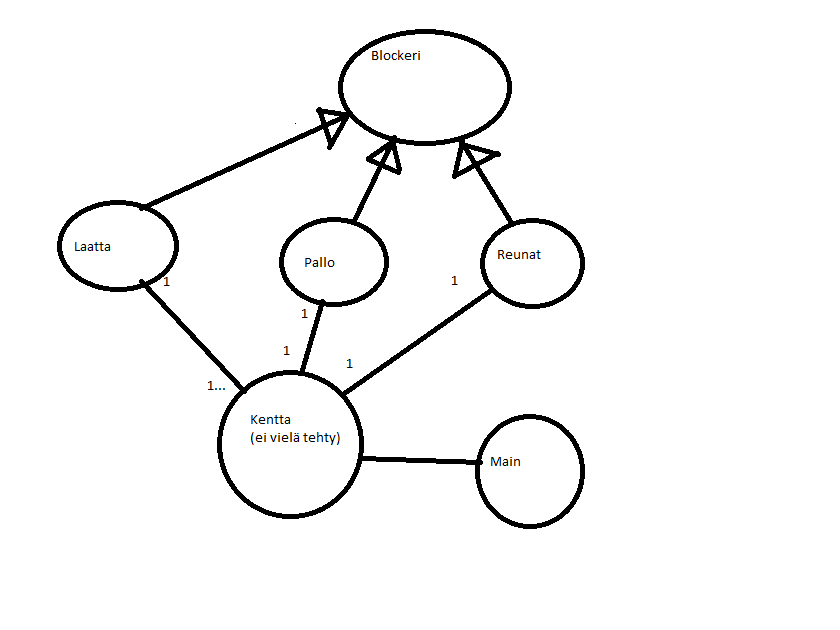
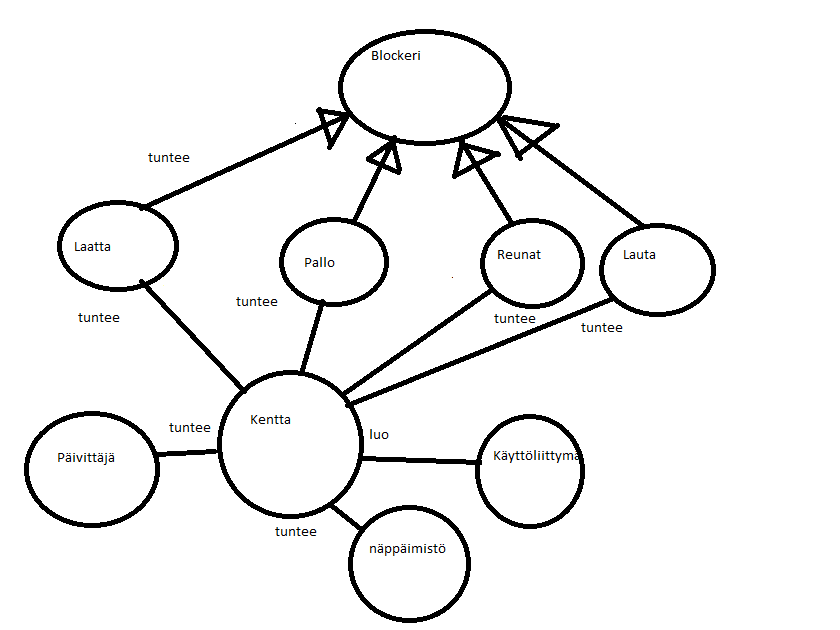
uusi luokkakaavio ja hienosäätöä

diff --git a/demolisher/src/main/java/kayttoliittyma/Kentta.java b/demolisher/src/main/java/kayttoliittyma/Kentta.java
@@ -36,7 +36,7 @@ public class Kentta extends JPanel{
     }
     
     /**
-     * Metodi keskeyttää pelin (KESKEN!)
+     * Metodi keskeyttää pelin
      */
     public void pause(){
         paalla = false;

diff --git a/documentaatio/tuntikirjanpito.md b/documentaatio/tuntikirjanpito.md
@@ -25,4 +25,4 @@ Päivittäjä-luokan alustus. Lisää testejä. 1h
 Käyttätoimintojen luonti, Lisää luokkia ja testejä. 3h
 
 18.11.2015
-Start ja pause. Lisäksi käyttöliittymän hiomista ja esimerkkikentän päivittäminen. Havaittu bugi, jossa kaksi laattaa voi tuhota kerralla ja pallo jatkaa matkaa. Pyrin korjaamaan sen myöhemmin
+Start ja pause. Lisäksi käyttöliittymän hiomista ja esimerkkikentän päivittäminen. Havaittu bugi, jossa kaksi laattaa voi tuhota kerralla ja pallo jatkaa matkaa. Pyrin korjaamaan sen myöhemmin. 3h
